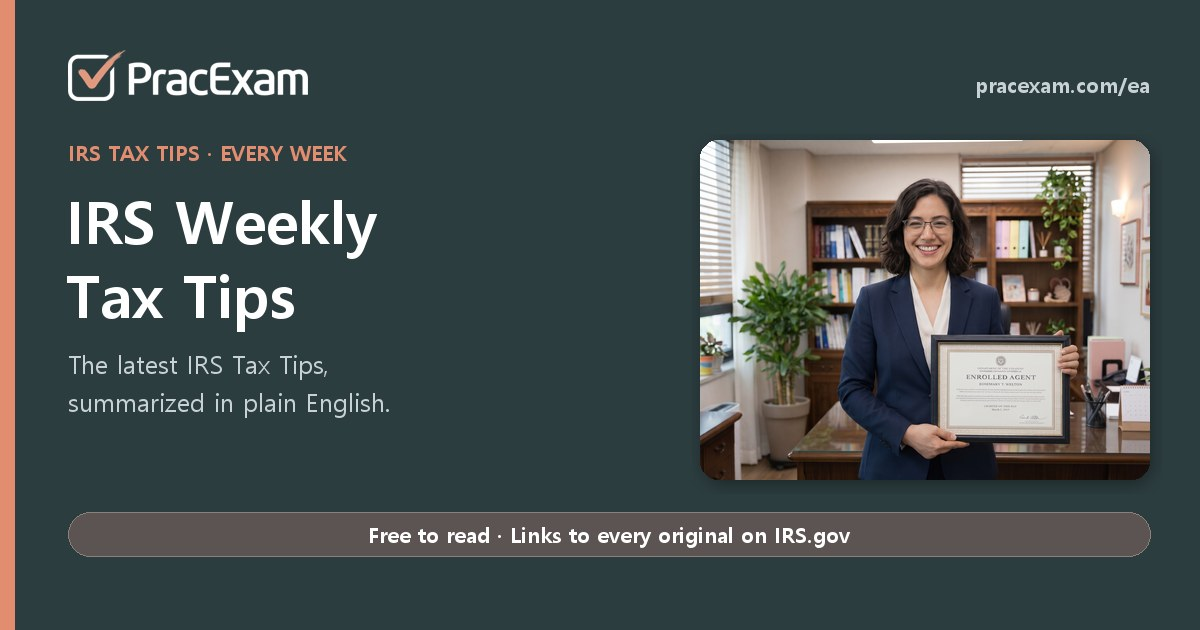
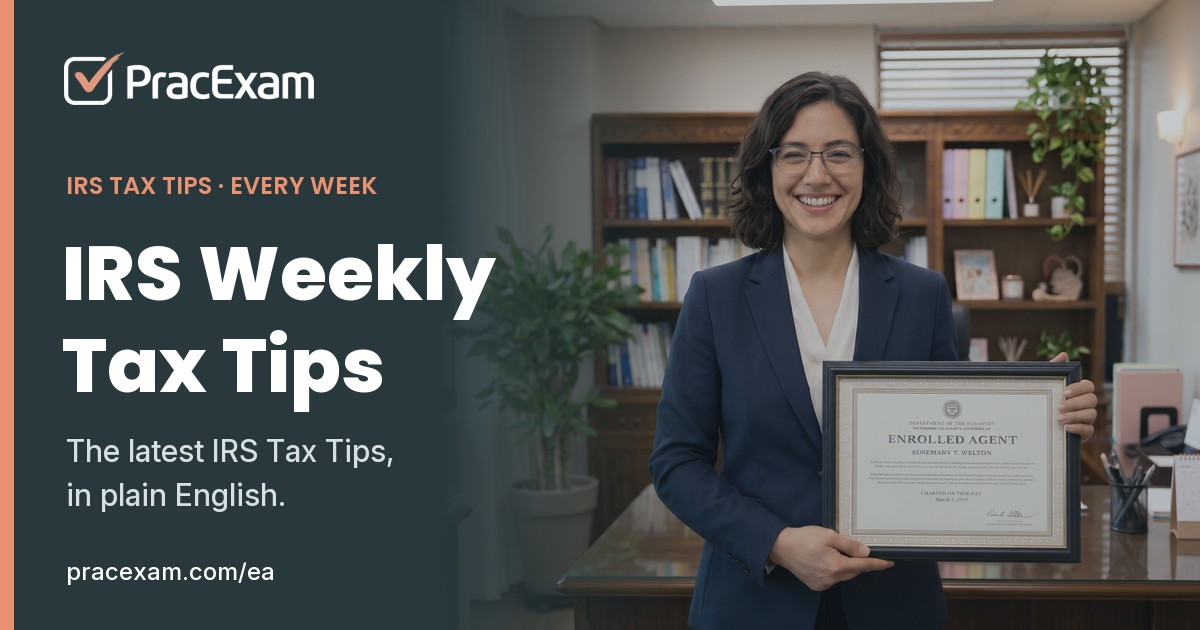
Share images (re-site, boss): hero-style Tax Tip images, new og-image.png (man at the desk, «Master the Enrolled Agent Exam»), hub RE line without a state list, Study Tips lists use og-ea.jpg; version bumps so Facebook refetches

diff --git a/tips/ko/index.html b/tips/ko/index.html
@@ -1,4 +1,4 @@
-<!doctype html><html lang="ko"><head><meta charset="utf-8"><meta name="viewport" content="width=device-width, initial-scale=1.0"><title>Study Tips — 미국 세무사, Enrolled Agent · EA 시험 가이드 | PracExam</title><meta name="description" content="미국 세무사, Enrolled Agent · EA 시험이 어떻게 짜여 있고 어떻게 준비해야 하는지, IRS 출제범위를 바탕으로 짧게 적은 글 모음."><link rel="canonical" href="https://pracexam.com/tips/ko/"><link rel="alternate" hreflang="en" href="https://pracexam.com/tips/"><link rel="alternate" hreflang="ko" href="https://pracexam.com/tips/ko/"><link rel="alternate" hreflang="x-default" href="https://pracexam.com/tips/"><meta property="og:type" content="website"><meta property="og:title" content="Study Tips — 미국 세무사, Enrolled Agent · EA 시험 가이드 | PracExam"><meta property="og:description" content="미국 세무사, Enrolled Agent · EA 시험이 어떻게 짜여 있고 어떻게 준비해야 하는지, IRS 출제범위를 바탕으로 짧게 적은 글 모음."><meta property="og:url" content="https://pracexam.com/tips/ko/"><meta property="og:locale" content="ko_KR"><meta property="og:image" content="https://pracexam.com/tips/img/PracExam_PSI_Trend_ko.png"><meta property="og:site_name" content="PracExam"><meta name="twitter:card" content="summary_large_image"><meta name="twitter:title" content="Study Tips — 미국 세무사, Enrolled Agent · EA 시험 가이드 | PracExam"><meta name="twitter:description" content="미국 세무사, Enrolled Agent · EA 시험이 어떻게 짜여 있고 어떻게 준비해야 하는지, IRS 출제범위를 바탕으로 짧게 적은 글 모음."><meta name="twitter:image" content="https://pracexam.com/tips/img/PracExam_PSI_Trend_ko.png"><link rel="icon" href="/favicon.ico"><link rel="preconnect" href="https://fonts.googleapis.com"><link rel="preconnect" href="https://fonts.gstatic.com" crossorigin><link href="https://fonts.googleapis.com/css2?family=DM+Serif+Display&family=Inter:wght@400;600;700;800&family=Poppins:wght@600;700;800&family=Noto+Sans+KR:wght@400;500;700;800&display=swap" rel="stylesheet"><style>/* 🔴 손으로 고치지 말 것 — `node build_site.js` 가 만듭니다. */
+<!doctype html><html lang="ko"><head><meta charset="utf-8"><meta name="viewport" content="width=device-width, initial-scale=1.0"><title>Study Tips — 미국 세무사, Enrolled Agent · EA 시험 가이드 | PracExam</title><meta name="description" content="미국 세무사, Enrolled Agent · EA 시험이 어떻게 짜여 있고 어떻게 준비해야 하는지, IRS 출제범위를 바탕으로 짧게 적은 글 모음."><link rel="canonical" href="https://pracexam.com/tips/ko/"><link rel="alternate" hreflang="en" href="https://pracexam.com/tips/"><link rel="alternate" hreflang="ko" href="https://pracexam.com/tips/ko/"><link rel="alternate" hreflang="x-default" href="https://pracexam.com/tips/"><meta property="og:type" content="website"><meta property="og:title" content="Study Tips — 미국 세무사, Enrolled Agent · EA 시험 가이드 | PracExam"><meta property="og:description" content="미국 세무사, Enrolled Agent · EA 시험이 어떻게 짜여 있고 어떻게 준비해야 하는지, IRS 출제범위를 바탕으로 짧게 적은 글 모음."><meta property="og:url" content="https://pracexam.com/tips/ko/"><meta property="og:locale" content="ko_KR"><meta property="og:image" content="https://pracexam.com/og-ea.jpg?v=1"><meta property="og:site_name" content="PracExam"><meta name="twitter:card" content="summary_large_image"><meta name="twitter:title" content="Study Tips — 미국 세무사, Enrolled Agent · EA 시험 가이드 | PracExam"><meta name="twitter:description" content="미국 세무사, Enrolled Agent · EA 시험이 어떻게 짜여 있고 어떻게 준비해야 하는지, IRS 출제범위를 바탕으로 짧게 적은 글 모음."><meta name="twitter:image" content="https://pracexam.com/og-ea.jpg?v=1"><link rel="icon" href="/favicon.ico"><link rel="preconnect" href="https://fonts.googleapis.com"><link rel="preconnect" href="https://fonts.gstatic.com" crossorigin><link href="https://fonts.googleapis.com/css2?family=DM+Serif+Display&family=Inter:wght@400;600;700;800&family=Poppins:wght@600;700;800&family=Noto+Sans+KR:wght@400;500;700;800&display=swap" rel="stylesheet"><style>/* 🔴 손으로 고치지 말 것 — `node build_site.js` 가 만듭니다. */
 :root{/* Harbor 팔레트 (2026-06-19) — 354649 / 6C7A89 / A3C6C4 / E0E7E9 */
   --page-bg:     #E0E7E9;
   --card-bg:     #ffffff;

diff --git a/tips/index.html b/tips/index.html
@@ -1,4 +1,4 @@
-<!doctype html><html lang="en"><head><meta charset="utf-8"><meta name="viewport" content="width=device-width, initial-scale=1.0"><title>Study Tips — EA &amp; Enrolled Agent Exam Study Notes | PracExam</title><meta name="description" content="Short reads on how the Enrolled Agent (EA) exam is built and how to prepare for it — what the IRS Content Outline says, and what changes each window."><link rel="canonical" href="https://pracexam.com/tips/"><link rel="alternate" hreflang="en" href="https://pracexam.com/tips/"><link rel="alternate" hreflang="ko" href="https://pracexam.com/tips/ko/"><link rel="alternate" hreflang="x-default" href="https://pracexam.com/tips/"><meta property="og:type" content="website"><meta property="og:title" content="Study Tips — EA &amp;amp; Enrolled Agent Exam Study Notes | PracExam"><meta property="og:description" content="Short reads on how the Enrolled Agent (EA) exam is built and how to prepare for it — what the IRS Content Outline says, and what changes each window."><meta property="og:url" content="https://pracexam.com/tips/"><meta property="og:locale" content="en_US"><meta property="og:image" content="https://pracexam.com/tips/img/PracExam_PSI_Trend_en.png"><meta property="og:site_name" content="PracExam"><meta name="twitter:card" content="summary_large_image"><meta name="twitter:title" content="Study Tips — EA &amp;amp; Enrolled Agent Exam Study Notes | PracExam"><meta name="twitter:description" content="Short reads on how the Enrolled Agent (EA) exam is built and how to prepare for it — what the IRS Content Outline says, and what changes each window."><meta name="twitter:image" content="https://pracexam.com/tips/img/PracExam_PSI_Trend_en.png"><link rel="icon" href="/favicon.ico"><link rel="preconnect" href="https://fonts.googleapis.com"><link rel="preconnect" href="https://fonts.gstatic.com" crossorigin><link href="https://fonts.googleapis.com/css2?family=DM+Serif+Display&family=Inter:wght@400;600;700;800&family=Poppins:wght@600;700;800&display=swap" rel="stylesheet"><style>/* 🔴 손으로 고치지 말 것 — `node build_site.js` 가 만듭니다. */
+<!doctype html><html lang="en"><head><meta charset="utf-8"><meta name="viewport" content="width=device-width, initial-scale=1.0"><title>Study Tips — EA &amp; Enrolled Agent Exam Study Notes | PracExam</title><meta name="description" content="Short reads on how the Enrolled Agent (EA) exam is built and how to prepare for it — what the IRS Content Outline says, and what changes each window."><link rel="canonical" href="https://pracexam.com/tips/"><link rel="alternate" hreflang="en" href="https://pracexam.com/tips/"><link rel="alternate" hreflang="ko" href="https://pracexam.com/tips/ko/"><link rel="alternate" hreflang="x-default" href="https://pracexam.com/tips/"><meta property="og:type" content="website"><meta property="og:title" content="Study Tips — EA &amp;amp; Enrolled Agent Exam Study Notes | PracExam"><meta property="og:description" content="Short reads on how the Enrolled Agent (EA) exam is built and how to prepare for it — what the IRS Content Outline says, and what changes each window."><meta property="og:url" content="https://pracexam.com/tips/"><meta property="og:locale" content="en_US"><meta property="og:image" content="https://pracexam.com/og-ea.jpg?v=1"><meta property="og:site_name" content="PracExam"><meta name="twitter:card" content="summary_large_image"><meta name="twitter:title" content="Study Tips — EA &amp;amp; Enrolled Agent Exam Study Notes | PracExam"><meta name="twitter:description" content="Short reads on how the Enrolled Agent (EA) exam is built and how to prepare for it — what the IRS Content Outline says, and what changes each window."><meta name="twitter:image" content="https://pracexam.com/og-ea.jpg?v=1"><link rel="icon" href="/favicon.ico"><link rel="preconnect" href="https://fonts.googleapis.com"><link rel="preconnect" href="https://fonts.gstatic.com" crossorigin><link href="https://fonts.googleapis.com/css2?family=DM+Serif+Display&family=Inter:wght@400;600;700;800&family=Poppins:wght@600;700;800&display=swap" rel="stylesheet"><style>/* 🔴 손으로 고치지 말 것 — `node build_site.js` 가 만듭니다. */
 :root{/* Harbor 팔레트 (2026-06-19) — 354649 / 6C7A89 / A3C6C4 / E0E7E9 */
   --page-bg:     #E0E7E9;
   --card-bg:     #ffffff;

diff --git a/functions/_middleware.js b/functions/_middleware.js
@@ -518,7 +518,7 @@ async function irsNews(context, p) {
       + '<p class="nw-more"><a href="' + nwPath(lang, "") + '">' + nwEsc(L.more) + " &rarr;</a></p></div>";
     ld = { "@context": "https://schema.org", "@type": "Article", headline: head.slice(0, 110), description: desc, inLanguage: lang,
       datePublished: row.issue_date, dateModified: String(row.updated_at || row.created_at || row.issue_date).slice(0, 10),
-      url: selfUrl, mainEntityOfPage: selfUrl, image: "https://pracexam.com/og-taxtip-" + lang + ".jpg?v=20261116",
+      url: selfUrl, mainEntityOfPage: selfUrl, image: "https://pracexam.com/og-taxtip-" + lang + ".jpg?v=20261116b",
       author: { "@type": "Organization", name: "PracExam", url: "https://pracexam.com/" },
       publisher: { "@type": "Organization", name: "PracExam", url: "https://pracexam.com/", logo: { "@type": "ImageObject", url: "https://pracexam.com/apple-touch-icon.png" } },
       isBasedOn: nwSources(row.html), about: ["IRS Tax Tips", "Enrolled Agent exam"] };
@@ -568,8 +568,8 @@ async function irsNews(context, p) {
     .on('meta[property="og:title"]', new MetaRewriter(title))
     .on('meta[property="og:description"]', new MetaRewriter(desc))
     .on('meta[property="og:url"]', new MetaRewriter(selfUrl))
-    .on('meta[property="og:image"]', new MetaRewriter("https://pracexam.com/og-taxtip-" + lang + ".jpg?v=20261116"))
-    .on('meta[name="twitter:image"]', new MetaRewriter("https://pracexam.com/og-taxtip-" + lang + ".jpg?v=20261116"))
+    .on('meta[property="og:image"]', new MetaRewriter("https://pracexam.com/og-taxtip-" + lang + ".jpg?v=20261116b"))
+    .on('meta[name="twitter:image"]', new MetaRewriter("https://pracexam.com/og-taxtip-" + lang + ".jpg?v=20261116b"))
     .on('meta[property="og:locale"]', new MetaRewriter(L.locale))
     .on('meta[property="og:locale:alternate"]', new MetaRewriter(lang === "ko" ? "en_US" : "ko_KR"))
     .on('meta[name="twitter:title"]', new MetaRewriter(title))

diff --git a/index.html b/index.html
@@ -77,7 +77,7 @@
 <meta property="og:url" content="https://pracexam.com/">
 <meta property="og:title" content="PracExam | EA, Enrolled Agent &amp; Real Estate Agent License Exam Practice Questions">
 <meta property="og:description" content="PracExam is a next-generation exam prep platform and online question bank for two U.S. licensing exams: the IRS Enrolled Agent, EA exam and the real estate agent, broker license exam (national plus state). Pick your exam and start practicing.">
-<meta property="og:image" content="https://pracexam.com/og-hub.jpg?v=3">
+<meta property="og:image" content="https://pracexam.com/og-hub.jpg?v=4">
 <meta property="og:image:width" content="1200">
 <meta property="og:image:height" content="630">
 <meta property="og:locale" content="en_US">
@@ -85,7 +85,7 @@
 <meta name="twitter:card" content="summary_large_image">
 <meta name="twitter:title" content="PracExam | EA, Enrolled Agent &amp; Real Estate Agent License Exam Practice Questions">
 <meta name="twitter:description" content="PracExam is a next-generation exam prep platform and online question bank for two U.S. licensing exams: the IRS Enrolled Agent, EA exam and the real estate agent, broker license exam (national plus state). Pick your exam and start practicing.">
-<meta name="twitter:image" content="https://pracexam.com/og-hub.jpg?v=3">
+<meta name="twitter:image" content="https://pracexam.com/og-hub.jpg?v=4">
 
 <script type="application/ld+json">
 {

diff --git a/ea/exam-tips/index.html b/ea/exam-tips/index.html
@@ -34,7 +34,7 @@
 <meta property="og:url" content="https://pracexam.com/ea/exam-tips/">
 <meta property="og:title" content="Enrolled Agent EA Exam Tips | PracExam">
 <meta property="og:description" content="What the Enrolled Agent (EA) credential is, who can take the IRS Special Enrollment Examination, exam format, fees, exam day and what comes after you pass.">
-<meta property="og:image" content="https://pracexam.com/og-image.png">
+<meta property="og:image" content="https://pracexam.com/og-image.png?v=2">
 <meta property="og:image:width" content="1200">
 <meta property="og:image:height" content="630">
 <meta property="og:locale" content="en_US">
@@ -42,7 +42,7 @@
 <meta name="twitter:card" content="summary_large_image">
 <meta name="twitter:title" content="Enrolled Agent EA Exam Tips | PracExam">
 <meta name="twitter:description" content="What the Enrolled Agent (EA) credential is, who can take the IRS Special Enrollment Examination, exam format, fees, exam day and what comes after you pass.">
-<meta name="twitter:image" content="https://pracexam.com/og-image.png">
+<meta name="twitter:image" content="https://pracexam.com/og-image.png?v=2">
 <link rel="stylesheet" href="/videos.css">
 <style>
 main.vp-main{max-width:1120px; padding:0 24px; margin:0 auto; flex:1 0 auto; width:100%;}

diff --git a/videos.html b/videos.html
@@ -31,7 +31,7 @@
 <meta property="og:url" content="https://pracexam.com/videos">
 <meta property="og:title" content="Enrolled Agent EA Exam Free Practice Videos | Shorts | PracExam">
 <meta property="og:description" content="Free Enrolled Agent EA exam practice questions explained in short videos (YouTube Shorts). Videos for Parts 1, 2 and 3.">
-<meta property="og:image" content="https://pracexam.com/og-image.png">
+<meta property="og:image" content="https://pracexam.com/og-image.png?v=2">
 <meta property="og:image:width" content="1200">
 <meta property="og:image:height" content="630">
 <meta property="og:locale" content="en_US">
@@ -39,7 +39,7 @@
 <meta name="twitter:card" content="summary_large_image">
 <meta name="twitter:title" content="Enrolled Agent EA Exam Free Practice Videos | Shorts | PracExam">
 <meta name="twitter:description" content="Free Enrolled Agent EA exam practice questions explained in short videos (YouTube Shorts). Videos for Parts 1, 2 and 3.">
-<meta name="twitter:image" content="https://pracexam.com/og-image.png">
+<meta name="twitter:image" content="https://pracexam.com/og-image.png?v=2">
 <link rel="stylesheet" href="videos.css">
 <style>
 main.vp-main{max-width:1120px; padding:0 24px; margin:0 auto; flex:1 0 auto; width:100%;}

diff --git a/ea/irs-news/index.html b/ea/irs-news/index.html
@@ -35,7 +35,7 @@
 <meta property="og:url" content="https://pracexam.com/ea/irs-news/">
 <meta property="og:title" content="IRS Tax Tips Weekly Summary | PracExam">
 <meta property="og:description" content="A plain-English weekly summary of the latest IRS Tax Tips, with a link to each original IRS article. From PracExam, the EA exam prep site.">
-<meta property="og:image" content="https://pracexam.com/og-image.png">
+<meta property="og:image" content="https://pracexam.com/og-image.png?v=2">
 <meta property="og:image:width" content="1200">
 <meta property="og:image:height" content="630">
 <meta property="og:locale" content="en_US">
@@ -43,7 +43,7 @@
 <meta name="twitter:card" content="summary_large_image">
 <meta name="twitter:title" content="IRS Tax Tips Weekly Summary | PracExam">
 <meta name="twitter:description" content="A plain-English weekly summary of the latest IRS Tax Tips, with a link to each original IRS article. From PracExam, the EA exam prep site.">
-<meta name="twitter:image" content="https://pracexam.com/og-image.png">
+<meta name="twitter:image" content="https://pracexam.com/og-image.png?v=2">
 <link rel="stylesheet" href="/videos.css">
 <style>
 main.vp-main{max-width:1120px; padding:0 24px; margin:0 auto; flex:1 0 auto; width:100%;}

diff --git a/ea/reviews/index.html b/ea/reviews/index.html
@@ -35,7 +35,7 @@
 <meta property="og:url" content="https://pracexam.com/ea/reviews/">
 <meta property="og:title" content="EA Exam Prep Reviews | PracExam">
 <meta property="og:description" content="Reviews from PracExam users preparing for the IRS Enrolled Agent (EA) exam: what helped them study and advice for new candidates.">
-<meta property="og:image" content="https://pracexam.com/og-image.png">
+<meta property="og:image" content="https://pracexam.com/og-image.png?v=2">
 <meta property="og:image:width" content="1200">
 <meta property="og:image:height" content="630">
 <meta property="og:locale" content="en_US">
@@ -43,7 +43,7 @@
 <meta name="twitter:card" content="summary_large_image">
 <meta name="twitter:title" content="EA Exam Prep Reviews | PracExam">
 <meta name="twitter:description" content="Reviews from PracExam users preparing for the IRS Enrolled Agent (EA) exam: what helped them study and advice for new candidates.">
-<meta name="twitter:image" content="https://pracexam.com/og-image.png">
+<meta name="twitter:image" content="https://pracexam.com/og-image.png?v=2">
 <link rel="stylesheet" href="/videos.css">
 <style>
 main.vp-main{max-width:1120px; padding:0 24px; margin:0 auto; flex:1 0 auto; width:100%;}

diff --git a/popquiz.html b/popquiz.html
@@ -33,7 +33,7 @@
 <meta property="og:url" content="https://pracexam.com/popquiz">
 <meta property="og:title" content="PracExam Pop Quiz — A Free EA Exam Question, Fully Explained">
 <meta property="og:description" content="A real EA exam-style question, free. Reveal the answer with a full explanation and an exam tip.">
-<meta property="og:image" content="https://pracexam.com/og-image.png">
+<meta property="og:image" content="https://pracexam.com/og-image.png?v=2">
 <meta property="og:image:width" content="1200">
 <meta property="og:image:height" content="630">
 <meta property="og:locale" content="en_US">
@@ -41,7 +41,7 @@
 <meta name="twitter:card" content="summary_large_image">
 <meta name="twitter:title" content="PracExam Pop Quiz — A Free EA Exam Question, Fully Explained">
 <meta name="twitter:description" content="A real EA exam-style question, free. Reveal the answer with a full explanation and an exam tip.">
-<meta name="twitter:image" content="https://pracexam.com/og-image.png">
+<meta name="twitter:image" content="https://pracexam.com/og-image.png?v=2">
 
 <link rel="preconnect" href="https://fonts.googleapis.com">
 <link rel="preconnect" href="https://fonts.gstatic.com" crossorigin>
